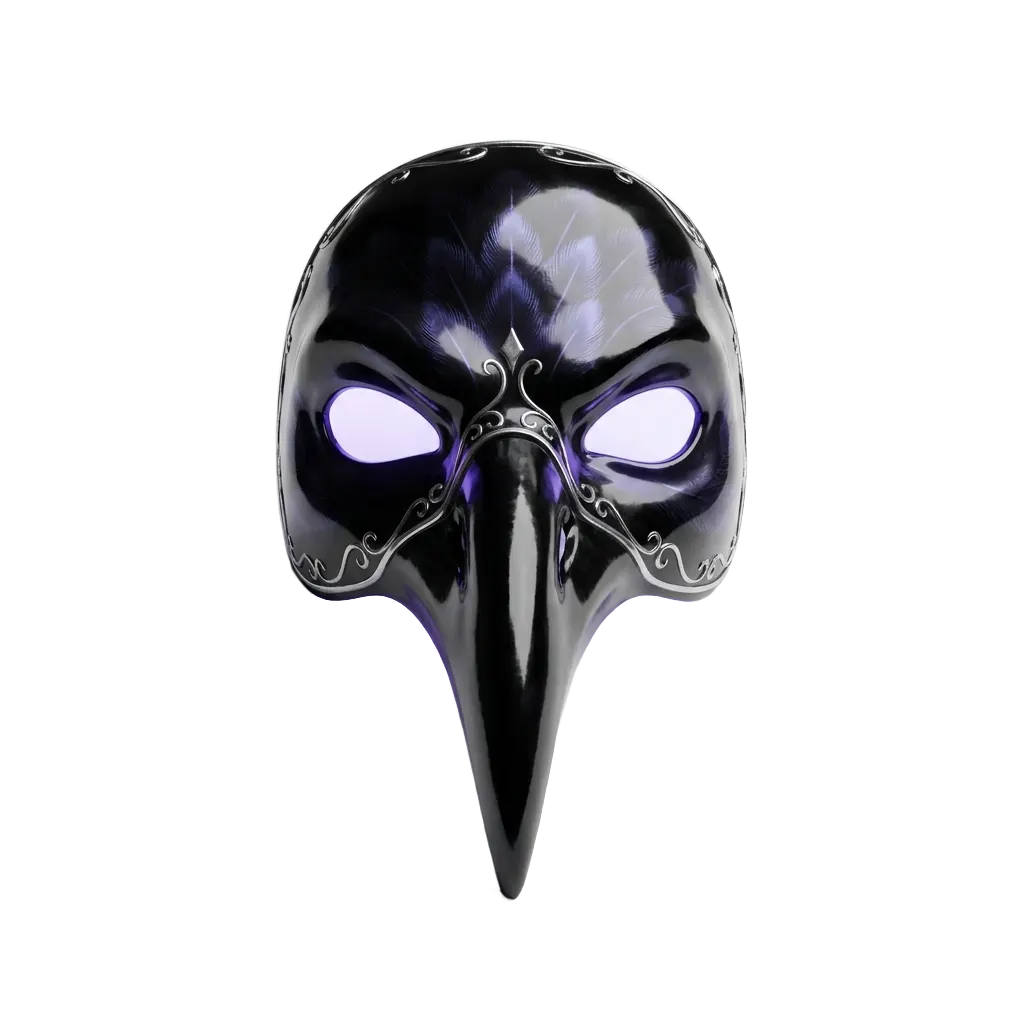
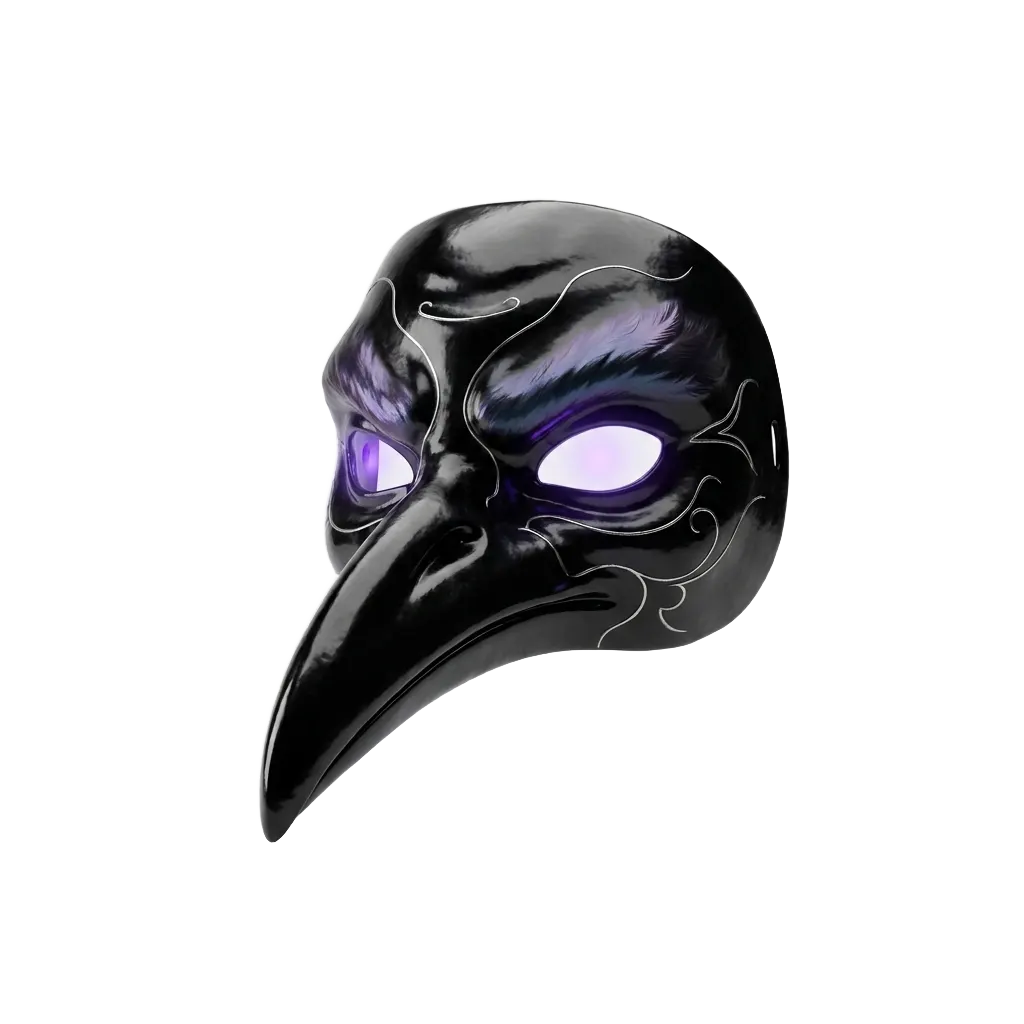
Rostos f4 no boneco: sprites recortados presos ao rig + tengu regenerado sem fundo

Changed region(s): [[0.25, 0.125, 0.7812, 0.875]]

diff --git a/client/src/game/itemSprites.js b/client/src/game/itemSprites.js
@@ -126,6 +126,12 @@ const CFG = {
   f3_face_mumia: { attach: 'face', len: 117, maxW: 99 },
   f3_mascara_geisha: { attach: 'face', len: 94, maxW: 77 },
   f3_elmo_rinoceronte: { attach: 'face', len: 99, maxW: 86 },
+  // ----- rostos diamante 4 (arte IA Higgsfield) -----
+  f4_menpo_jade: { attach: 'face', len: 92, maxW: 80 },
+  f4_hannya_gelo: { attach: 'face', len: 96, maxW: 82 },
+  f4_kitsune_nove: { attach: 'face', len: 90, maxW: 77 },
+  f4_tigre_sangue: { attach: 'face', len: 96, maxW: 86 },
+  f4_tengu_corvo: { attach: 'face', len: 88, maxW: 72 },
 };
 
 // itens que usam sprite MESMO com o interruptor mestre desligado
@@ -147,6 +153,7 @@ const SPRITE_WHITELIST = new Set([
   'saf_arms_gloves',
   'esm_arms_gloves',
   'f3_elmo_aguia', 'f3_mascara_urso', 'f3_mascara_naja', 'f3_elmo_leao', 'f3_mascara_farao', 'f3_caveira_fogo', 'f3_mascara_diabo', 'f3_elmo_coruja', 'f3_face_mumia', 'f3_mascara_geisha', 'f3_elmo_rinoceronte',
+  'f4_menpo_jade', 'f4_hannya_gelo', 'f4_kitsune_nove', 'f4_tigre_sangue', 'f4_tengu_corvo',
 ]);
 
 // ============================================================